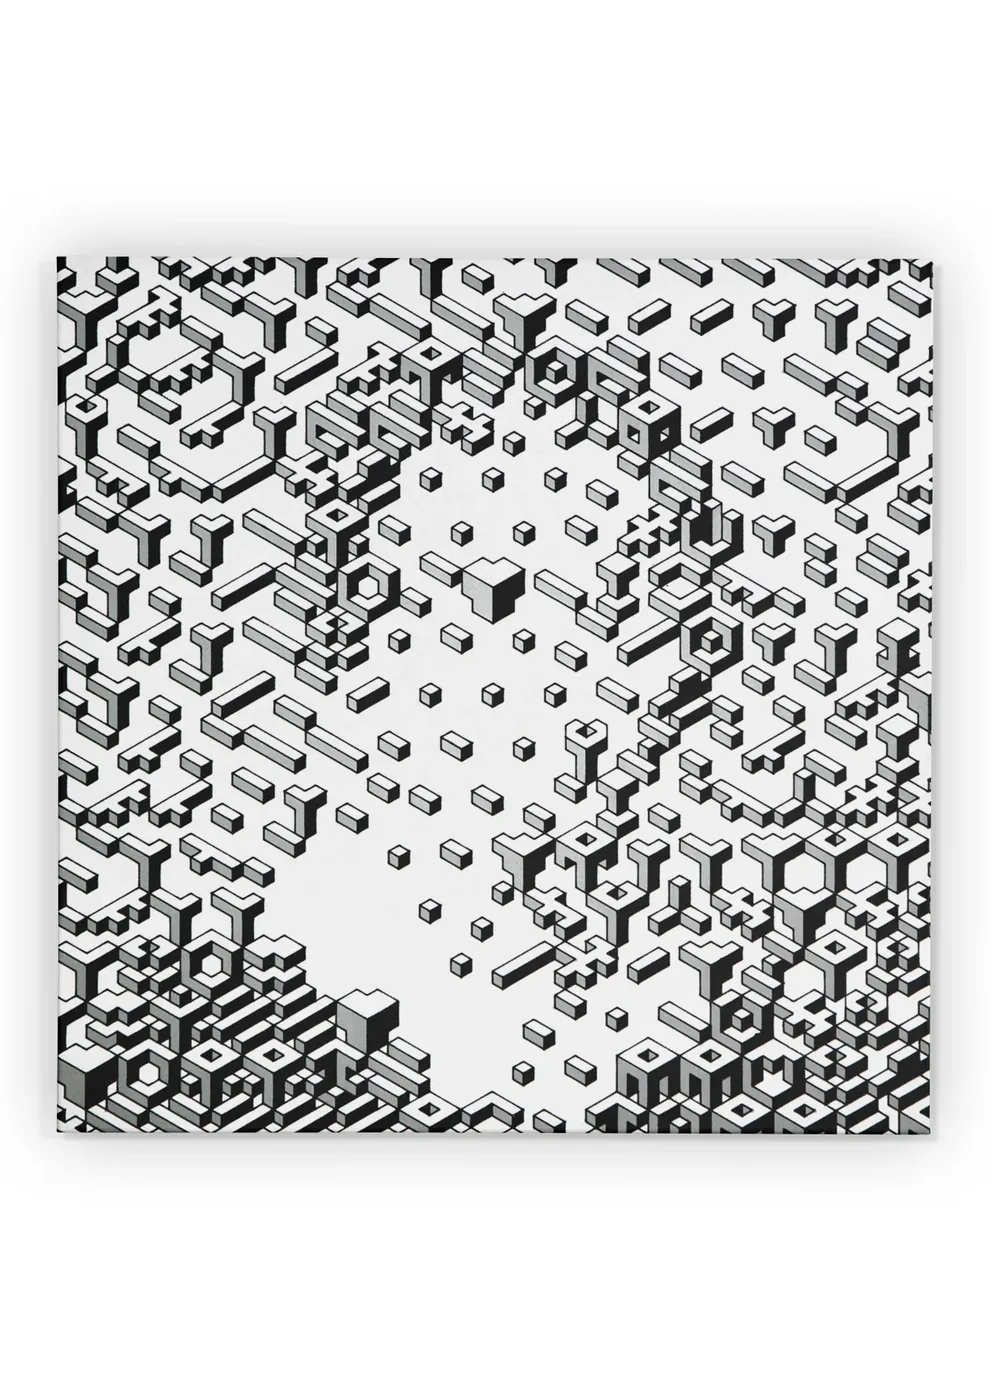
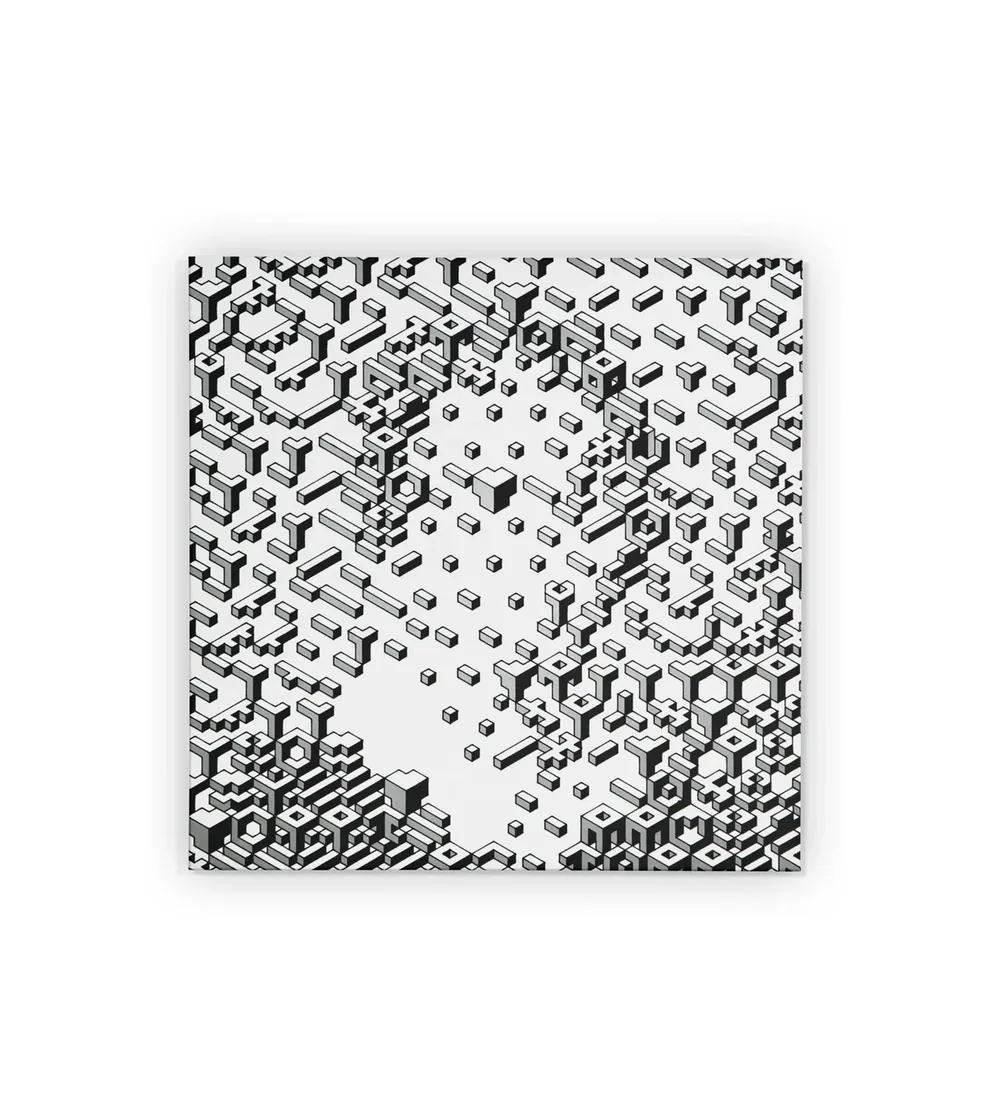
Re-fit Matildas previews to square house geometry, complete Waves & Particles metadata (v1.16.1)

diff --git a/version.js b/version.js
@@ -1,6 +1,14 @@
-const VERSION = "1.16.0";
+const VERSION = "1.16.1";
 
 const CHANGELOG = [
+  {
+    version: "1.16.1",
+    date: "2026-09-19",
+    changes: [
+      "Re-fit Marietta Blau and Esther Lederberg previews to the square house geometry (1200x1326, preview_height)",
+      "Add size, support and pen to Waves & Particles"
+    ]
+  },
   {
     version: "1.16.0",
     date: "2026-09-19",

diff --git a/_posts/portfolio/2026-07-31-Waves_Particles.md b/_posts/portfolio/2026-07-31-Waves_Particles.md
@@ -7,8 +7,10 @@ date: 2026-07-31
 category: portfolio
 image: /assets/images/portfolio/2026-07-31-Waves_Particles/Waves_Particles-preview.webp
 ink: "Acrylic"
-pen: ""
+pen: "Molotow pump marker"
 frame: ""
+size: "A1 (59.4 x 84.1 cm)"
+support: "Bristol"
 ---
 
 My interpretation of wave particle duality.

diff --git a/_posts/portfolio/2026-05-10-esther-lederberg.md b/_posts/portfolio/2026-05-10-esther-lederberg.md
@@ -6,6 +6,7 @@ description: "Esther Lederberg: An algorithmic pen plotted portrait by Targz fro
 date: 2026-05-10
 category: portfolio
 image: /assets/images/portfolio/2026-05-10-esther-lederberg/esther-lederberg-preview.webp
+preview_height: 1326
 ink: "Acrylic"
 pen: "Molotow pump marker"
 frame: ""

diff --git a/_posts/portfolio/2026-05-08-marietta-blau.md b/_posts/portfolio/2026-05-08-marietta-blau.md
@@ -6,6 +6,7 @@ description: "Marietta Blau: An algorithmic pen plotted portrait by Targz from t
 date: 2026-05-08
 category: portfolio
 image: /assets/images/portfolio/2026-05-08-marietta-blau/marietta-blau-preview.webp
+preview_height: 1326
 ink: "Acrylic"
 pen: "Molotow pump marker"
 frame: ""
